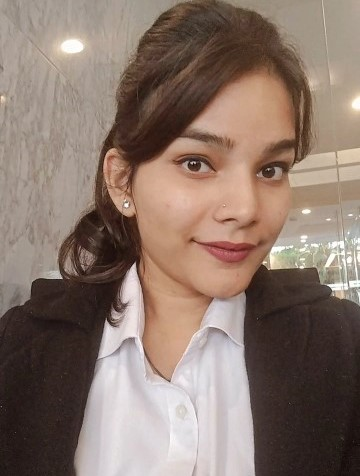
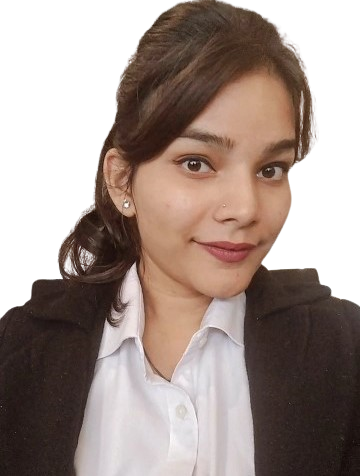
adding some animation

diff --git a/src/App.css b/src/App.css
@@ -1,23 +1,13 @@
-* {
-  margin: 0;
-  padding: 0;
-  box-sizing: border-box;
-  text-decoration: none;
-  background: transparent;
-}
 
 body {
-
-  background:black ;
-  color: white;
-  overflow: hidden;
-  overflow-y: scroll;
-}
-
-@media only screen and (max-width: 600px){
-  body{
-    background-color: black;
-  }
+width: 100%;
+height: 100%;
+margin: 0;
+padding: 0;
+background:linear-gradient(#063250,#08436A,#0B598D,#1593E6,rgb(190, 190, 231));
+color: white;
+overflow: hidden;
+overflow-y: scroll;
 }
 
 .desktop-menu {
@@ -26,20 +16,27 @@ body {
   cursor: pointer;
   justify-items: center;
   justify-content: space-between;
-  margin-left: 2rem;
+  margin-left: 30rem;
   align-items: center;
+  list-style: none;
+  gap: 47px;
+}
+
+.desktop-menu a{
+  font-size: 25px;
+  color: aliceblue;
+  text-decoration: none;
 }
 
 .items {
   width: 200%;
- 
-  color: white;
   justify-content: space-between;
   margin-left: 2rem;
   font-weight: bold;
   border-bottom: none;
-  /* font-family: cursive; */
+
 }
+
 .items:hover {
   padding-bottom: 0.5rem;
   color: yellow;
@@ -59,16 +56,15 @@ body {
   width: 100vw;
   overflow: hidden;
   display: flex;
-  justify-content: space-between;
+  /* justify-content: space-between; */
   margin-left: 3rem;
-
 }
 .introContent {
   margin-top: 7rem;
   height: 100vh;
   width: 100vh;
-  padding: 2rem;
-  font-size: 3rem;
+  padding: 1rem;
+  font-size: 2rem;
   font-weight: 700;
   flex-direction: column;
   justify-content: center;
@@ -79,18 +75,10 @@ body {
 }
 .introName {
   color: white;
-  /* font-family: cursive; */
+  
 }
 
-.introName2 {
-  width: 100%;
-  height: 20px;
-  margin-right: 15rem;
-  color: yellow;
-  transition: all ease 0.3s;
-  font-weight: bold;
-  /* font-family: cursive; */
-}
+
 
 .introParagh {
   font-size: small;
@@ -107,11 +95,10 @@ body {
   cursor: pointer;
 }
 
-.body {
-  color: black;
-}
+
 
 .item {
+  color: black;
   margin-left: 10rem;
   width: 70%;
 }
@@ -122,17 +109,44 @@ body {
 
 .shalu {
   height: 400px;
-  width: 300px;
-  margin-right: 3rem;
+  width: 500px;
   margin-top: 3rem;
-  border-radius: 50px;
+  border-radius: 1200%;
   position: absolute;
   z-index: -1;
   right: 0;
-  object-fit: cover;
+  object-fit:scale-down;
   transition: all ease 0.3s;
-  filter: drop-shadow(5px 5px 5px rgb(50, 161, 245));
+  filter: drop-shadow(5px 5px 5px yellow);
+/* z-index: 1; */
+animation-name: floating;
+animation-duration: 5s;
+animation-iteration-count:infinite ;
+animation-timing-function:ease-in-out ;
+
+
+
 }
+.introName2{
+  color: yellow;
+ 
+ 
+}
+
+@keyframes floating {
+  0%{
+    transform: translate(0,0px);
+  }
+  50%{
+    transform: translate(0,30px);
+  }
+  100%{
+    transform: translate(0,-1px);
+  }
+}
+
+
+
 
 .skillImg {
   height: 60px;
@@ -153,11 +167,75 @@ body {
 }
 
 
+
+
 .projectImg{
   height: 20px;
   width: 30px;
   border-radius: 20px;
 }
+.Accordion{
+
+  margin-top:100px ;
+}
 
 
 
+
+@media screen  and (max-width:600px){
+  .Navbar{
+    flex-direction: column;
+    align-items:flex-start ;
+    height: 5rem;
+    padding: 1rem 2rem;
+    display: flex;
+    align-items: center;
+    top: 0;
+    /* margin-left: 3rem; */
+  }
+  menu{
+    position: absolute;
+    right: 0;
+    margin:10% ;
+    flex-direction: column;
+    align-items: flex-end;
+    gap: 11px;
+    z-index: 3;
+  }
+
+  .desktop-menu {
+    display: flex;
+    margin: 1rem;
+    cursor: pointer;
+    justify-items: center;
+    justify-content: space-between;
+    margin-left: 2rem;
+    align-items: center;
+    list-style: none;
+    gap: 47px;
+  
+  }
+  
+  .desktop-menu a{
+    font-size: 25px;
+  
+    text-decoration: none;
+  }
+ 
+ 
+
+
+  }
+
+.contactBtn{
+  height: 50px;
+  width: 100px;
+  text-decoration: none;
+  background-color: yellow;
+  color: black;
+  border-radius: 100px;
+  font-size: 30px;
+  font-weight: 600px;
+  padding: 17px 26px;
+  box-shadow: 0 ,0, 4px 0 red;
+}

diff --git a/src/component/Project.js b/src/component/Project.js
@@ -2,13 +2,17 @@ import React from "react";
 import { Accordion } from "react-bootstrap"
 import myntra2 from"../Image/myntra2.jpg"
 import todo from "../Image/todo.png"
+import amazon from"../Image/amazon.png"
+import text from "../Image/text.png"
+import port from"../Image/port.png"
+import toe from"../Image/toe.png"
 function Projects() {
     return (
 
         <Accordion className="Accordion">
 
             <Accordion.Item eventKey="1" className="item">
-                <Accordion.Header className="heading-acc"> <strong><span>Tic-Tac-Toe </span> </strong> </Accordion.Header>
+                <Accordion.Header className="heading-acc">  <img src={toe} className="projectImg" /><strong><span>Tic-Tac-Toe </span> </strong> </Accordion.Header>
                 <Accordion.Body className="body">
                     <strong> Description: </strong> created a Tic Tac Toe responsive web page game by using  <srong> HTML, CSS  and JavaScript </srong>with some images ,
                     used some awesome icons for giving beautiful layout to looks attractive.
@@ -25,7 +29,7 @@ function Projects() {
             </Accordion.Item>
 
             <Accordion.Item eventKey="3" className="item">
-                <Accordion.Header className="heading-acc"> <strong><span>Porfolio </span> </strong></Accordion.Header>
+                <Accordion.Header className="heading-acc"> <img src={port} className="projectImg" /> <strong><span>Porfolio </span> </strong></Accordion.Header>
                 <Accordion.Body className="body">
                     <strong>  Description:</strong> Created a portfolio website by using  <strong> React JS </strong>. Explore my interactive portfolio
                     I have added animations and transition by using CSS and react Scroll.
@@ -34,7 +38,7 @@ function Projects() {
             </Accordion.Item>
 
             <Accordion.Item eventKey="4" className="item">
-                <Accordion.Header className="heading-acc"><strong><span> Text Editor  </span> </strong></Accordion.Header>
+                <Accordion.Header className="heading-acc">   <img src={text} className="projectImg" /><strong><span> Text Editor  </span> </strong></Accordion.Header>
                 <Accordion.Body className="body">
                     <strong>  Description:</strong> I have created a text calculator by using  <strong> React JS </strong>React JS and added some <strong> bootstrap </strong> styling,
                     it helps to calculate the number of words and characters ,
@@ -54,7 +58,7 @@ function Projects() {
 
 
             <Accordion.Item eventKey="6" className="item">
-                <Accordion.Header className="heading-acc"><strong><span>Amazon clone</span> </strong></Accordion.Header>
+                <Accordion.Header className="heading-acc"> <img src={amazon} className="projectImg" />   <strong><span>Amazon clone</span> </strong></Accordion.Header>
                 <Accordion.Body className="body">
                     <strong>  Description:</strong>created an amazon Clone webpage by using <strong>HTML , CSS , JavaScript.</strong>
                 </Accordion.Body>
@@ -62,13 +66,6 @@ function Projects() {
 
            
 
-            <Accordion.Item eventKey="7" className="item">
-                <Accordion.Header className="heading-acc"><strong><span> Login form</span> </strong></Accordion.Header>
-                <Accordion.Body className="body">
-                    <strong>  Description:</strong>Created a login form it is responsive webpage button by using HTML,
-                    CSS , JavaScript   .
-                </Accordion.Body>
-            </Accordion.Item>
 
 
         </Accordion>

diff --git a/src/component/Navbar.js b/src/component/Navbar.js
@@ -7,17 +7,27 @@ const Navbar = () => {
 
 
         <>
-            <div className="Navbar">
+            <nav className="Navbar">
 
-                <h1 className="introName2">Shalini singh</h1>
+                <h1 className="introName2">Portfolio</h1>
+                <div className="menu"> 
+                    < ol className="desktop-menu">
+                        <li>
+                            <a activeClass="active" href="/Home" spy={true} smooth={true} offset={-100} duration={500} className="items">Home </a>
 
-                < div className="desktop-menu">
-                    <a activeClass="active" href="/Home" spy={true} smooth={true} offset={-100} duration={500} className="items">Home </a>
-                    <a activeClass="active" href="/skills" spy={true} smooth={true} offset={-50} duration={500} className="items">Skills</a>
-                    <a activeClass="active" href="/projects" spy={true} smooth={true} offset={-50} duration={500} className="items">Projects</a>
+                        </li>
+                        <li>
+                            <a activeClass="active" href="/skills" spy={true} smooth={true} offset={-50} duration={500} className="items">Skills</a>
+                        </li>
+
+
+                        <li>
+                            <a activeClass="active" href="/projects" spy={true} smooth={true} offset={-50} duration={500} className="items">Projects</a>
+                        </li>
+
+                    </ol>
                 </div>
-
-            </div>
+            </nav>
         </>
     )
 }

diff --git a/src/component/Intro.js b/src/component/Intro.js
@@ -1,5 +1,6 @@
 import React from "react";
 import shalu from "../Image/shalu.jpg"
+// import mama from "../Image/mama.png"
 
 const Intro = () => {
 
@@ -10,15 +11,19 @@ const Intro = () => {
 
             <section id="intro">
                 <div className="introContent">
-                    <span className="hello"> Hello,</span> <br></br>
-                    <span className="introText"> I'm<span className="introName"> Shalini singh</span> <br></br>Web Developer</span>
+                    <span className="hello"> Hii,</span> <br></br>
+                    <span className="introText"> I'm<strong className="introName"> Shalini singh</strong> <br></br>Web Developer</span>
                     <p className="introParagh">  Developed proficiency in <strong> Frontend Development</strong> by implementing solutions in <strong>ReactJS, Java,SQL</strong> .
                         <br></br>to enhance user experiences. <br></br> Targeting roles as a <strong> Frontend Development.</strong>  </p>
-                  
+                
+                    <a className="contactBtn" href=" mailto:shalu.singh1304@gmail.com"  >contact me</a>
                 </div>
                 <img src={shalu} alt="shalu" className="shalu" />
 
             </section>
+
+
+          
 
 
 
